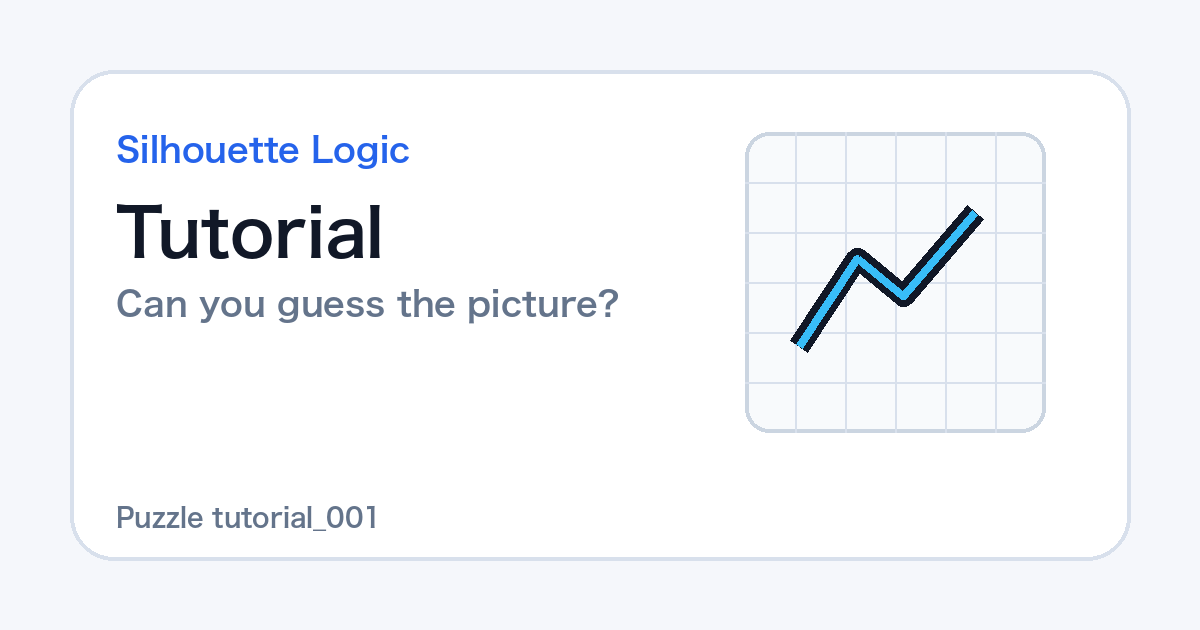
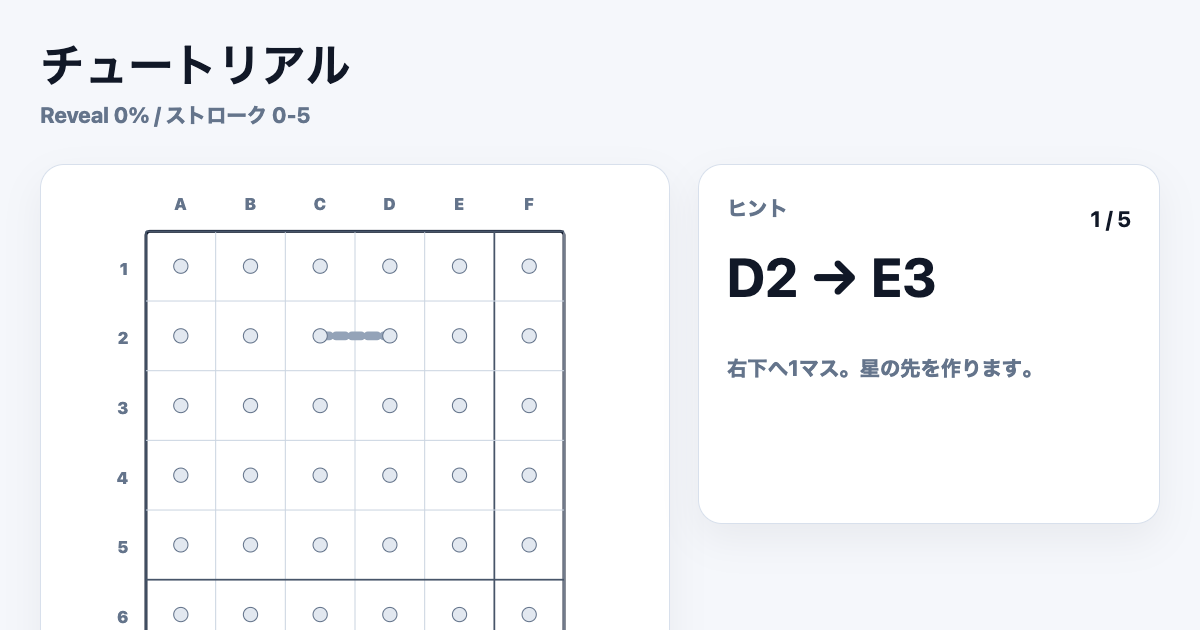
Deploy Silhouette Logic

diff --git a/silhouettelogic/index.html b/silhouettelogic/index.html
@@ -10,8 +10,8 @@
     <meta name="apple-mobile-web-app-title" content="Silhouette Logic" />
     <meta name="apple-mobile-web-app-status-bar-style" content="black-translucent" />
     <title>Silhouette Logic</title>
-    <script type="module" crossorigin src="/silhouettelogic/assets/index-Dt6VEAWz.js"></script>
-    <link rel="stylesheet" crossorigin href="/silhouettelogic/assets/index-WYzdKBGx.css">
+    <script type="module" crossorigin src="/silhouettelogic/assets/index-DjiVB9-N.js"></script>
+    <link rel="stylesheet" crossorigin href="/silhouettelogic/assets/index-CwagTr86.css">
   <link rel="manifest" href="/silhouettelogic/manifest.webmanifest"><script id="vite-plugin-pwa:register-sw" src="/silhouettelogic/registerSW.js"></script></head>
   <body>
     <div id="root"></div>

diff --git a/silhouettelogic/sw.js b/silhouettelogic/sw.js
@@ -1,1 +1,1 @@
-if(!self.define){let e,i={};const s=(s,n)=>(s=new URL(s+".js",n).href,i[s]||new Promise(i=>{if("document"in self){const e=document.createElement("script");e.src=s,e.onload=i,document.head.appendChild(e)}else e=s,importScripts(s),i()}).then(()=>{let e=i[s];if(!e)throw new Error(`Module ${s} didn’t register its module`);return e}));self.define=(n,r)=>{const t=e||("document"in self?document.currentScript.src:"")||location.href;if(i[t])return;let l={};const o=e=>s(e,t),d={module:{uri:t},exports:l,require:o};i[t]=Promise.all(n.map(e=>d[e]||o(e))).then(e=>(r(...e),l))}}define(["./workbox-9c191d2f"],function(e){"use strict";self.skipWaiting(),e.clientsClaim(),e.precacheAndRoute([{url:"registerSW.js",revision:"1a3e9ff25e8640903a9c7790d7196d83"},{url:"index.html",revision:"ea36fae1c2c065a8ff04e85c2ce02acb"},{url:"puzzle/tutorial_001/index.html",revision:"1d506d4f7e2a3803d5780df4094877af"},{url:"puzzle/sailboat_001/index.html",revision:"fb3f3b9109618f93eb1d2094e012fddb"},{url:"puzzle/cat_001/index.html",revision:"5d4dc3f94447044abedbfbefb1b6d0bf"},{url:"assets/index-WYzdKBGx.css",revision:null},{url:"assets/index-Dt6VEAWz.js",revision:null},{url:"icons/icon.svg",revision:"b6432630abca76e9c49f06be3d4a74df"},{url:"manifest.webmanifest",revision:"88f9a967879c6aace48a33b7ec1d4984"}],{}),e.cleanupOutdatedCaches(),e.registerRoute(new e.NavigationRoute(e.createHandlerBoundToURL("index.html")))});
+if(!self.define){let e,i={};const s=(s,n)=>(s=new URL(s+".js",n).href,i[s]||new Promise(i=>{if("document"in self){const e=document.createElement("script");e.src=s,e.onload=i,document.head.appendChild(e)}else e=s,importScripts(s),i()}).then(()=>{let e=i[s];if(!e)throw new Error(`Module ${s} didn’t register its module`);return e}));self.define=(n,r)=>{const t=e||("document"in self?document.currentScript.src:"")||location.href;if(i[t])return;let d={};const l=e=>s(e,t),o={module:{uri:t},exports:d,require:l};i[t]=Promise.all(n.map(e=>o[e]||l(e))).then(e=>(r(...e),d))}}define(["./workbox-9c191d2f"],function(e){"use strict";self.skipWaiting(),e.clientsClaim(),e.precacheAndRoute([{url:"registerSW.js",revision:"1a3e9ff25e8640903a9c7790d7196d83"},{url:"index.html",revision:"15d790290af9e68c1e73671b2e1bd8be"},{url:"puzzle/tutorial_001/index.html",revision:"1d506d4f7e2a3803d5780df4094877af"},{url:"puzzle/sailboat_001/index.html",revision:"fb3f3b9109618f93eb1d2094e012fddb"},{url:"puzzle/cat_001/index.html",revision:"5d4dc3f94447044abedbfbefb1b6d0bf"},{url:"assets/index-DjiVB9-N.js",revision:null},{url:"assets/index-CwagTr86.css",revision:null},{url:"icons/icon.svg",revision:"b6432630abca76e9c49f06be3d4a74df"},{url:"manifest.webmanifest",revision:"88f9a967879c6aace48a33b7ec1d4984"}],{}),e.cleanupOutdatedCaches(),e.registerRoute(new e.NavigationRoute(e.createHandlerBoundToURL("index.html")))});

diff --git a/silhouettelogic/assets/index-CwagTr86.css b/silhouettelogic/assets/index-CwagTr86.css
@@ -1,0 +1,1 @@
+:root{color-scheme:light;--bg: #f5f7fb;--surface: #ffffff;--ink: #111827;--muted: #64748b;--line: #d8e0ec;--accent: #2563eb;--accent-2: #06b6d4;--danger: #dc2626;--soft: #eaf1ff;font-family:Inter,ui-sans-serif,system-ui,-apple-system,BlinkMacSystemFont,Segoe UI,sans-serif}*{box-sizing:border-box}body{margin:0;background:var(--bg);color:var(--ink);min-height:100vh}button{border:0;border-radius:999px;background:var(--ink);color:#fff;min-height:44px;padding:10px 16px;font:inherit;font-weight:900;cursor:pointer}button:disabled{cursor:not-allowed;opacity:.42}button.secondary{background:var(--soft);color:var(--ink)}.icon-button{width:44px;padding:0;display:inline-grid;place-items:center;background:var(--surface);color:var(--ink);border:1px solid var(--line)}.icon-button svg,.game-actions svg{width:20px;height:20px}.app-shell,.game-shell{width:min(1080px,calc(100% - 28px));margin:0 auto;padding:max(16px,env(safe-area-inset-top)) 0 28px}.topbar,.game-header,.section-head{display:flex;align-items:center;justify-content:space-between;gap:12px}h1,h2,h3,p{margin-top:0}.topbar h1,.game-header h1{margin-bottom:2px;font-size:clamp(26px,5vw,44px);letter-spacing:0}.topbar p,.game-header p,.daily-card p,.puzzle-card p,.puzzle-card small{color:var(--muted);font-weight:750}.daily-card{margin:18px 0;min-height:190px;border-radius:28px;padding:clamp(22px,5vw,40px);color:#fff;background:radial-gradient(circle at 80% 20%,rgba(6,182,212,.8),transparent 32%),linear-gradient(135deg,#111827,#1d4ed8);box-shadow:0 22px 48px #0f172a26}.daily-card p{color:#ffffffc7}.daily-card h2{font-size:clamp(30px,8vw,58px);margin-bottom:8px}.daily-card button{background:#fff;color:var(--ink)}.eyebrow{color:var(--accent);letter-spacing:.09em;text-transform:uppercase;font-size:12px;font-weight:950}.daily-card .eyebrow{color:#ffffffc7}.puzzle-list{display:grid;gap:12px}.puzzle-card{display:grid;grid-template-columns:72px minmax(0,1fr) auto;align-items:center;gap:14px;padding:14px;border-radius:22px;background:var(--surface);border:1px solid var(--line)}.puzzle-card h3{margin-bottom:4px}.mini-preview{width:72px;aspect-ratio:1;border-radius:18px;background:#f8fafc;border:1px solid var(--line);overflow:hidden}.mini-preview rect{fill:#f8fafc}.mini-preview line{stroke:#111827;stroke-width:7;stroke-linecap:round}.progress-bar{height:8px;border-radius:999px;overflow:hidden;background:#e5e7eb;margin:8px 0 4px}.progress-bar span{display:block;height:100%;border-radius:inherit;background:linear-gradient(90deg,var(--accent),var(--accent-2))}.game-layout{display:grid;grid-template-columns:minmax(0,1fr) minmax(280px,360px);gap:18px;align-items:start;margin-top:16px}.board-frame,.hint-card,.modal,.side-panel .toast{background:var(--surface);border:1px solid var(--line);border-radius:24px;box-shadow:0 16px 38px #0f172a0f}.board-frame{padding:clamp(10px,2vw,18px)}.puzzle-svg{display:block;width:100%;max-height:min(74vh,760px);touch-action:none;-webkit-user-select:none;user-select:none}.coord-label{fill:var(--muted);font-size:4px;font-weight:900}.grid-bg{fill:#fff;stroke:#0f172a;stroke-width:.7}.grid-line{stroke:#cbd5e1;stroke-width:.25}.grid-line.major{stroke:#475569;stroke-width:.42}.stroke{fill:none;stroke-linecap:round;stroke-linejoin:round}.stroke.pre{stroke:#94a3b8;stroke-width:2.1;stroke-dasharray:2.2 1.6}.stroke.done{stroke:#111827;stroke-width:2.5}.stroke.draft{stroke:#2563eb;stroke-width:1.8;opacity:.74}.stroke.wrong{stroke:var(--danger);stroke-width:3}.point{fill:#e2e8f0;stroke:#64748b;stroke-width:.25}.point.active{fill:#2563eb}.side-panel{display:grid;gap:12px}.hint-card{padding:18px}.hint-top{display:flex;align-items:center;justify-content:space-between;gap:10px}.hint-top p,.hint-card p{color:var(--muted);font-weight:750}.hint-card h2{font-size:clamp(26px,4vw,38px)}.mystery-hint{padding:12px;border-radius:16px;background:#fff7ed;color:#9a3412;font-weight:900}.hint-actions,.game-actions,.modal-actions{display:flex;gap:8px;flex-wrap:wrap}.game-actions button{flex:1;display:inline-flex;align-items:center;justify-content:center;gap:8px}.toast{padding:12px 16px;color:var(--danger);font-weight:900}.modal-layer{position:fixed;inset:0;z-index:50;display:grid;place-items:center;padding:18px;background:#0f172a7a}.modal{width:min(480px,100%);max-height:calc(100dvh - 52px);overflow:auto;padding:24px}.modal h2{font-size:34px}.choice-grid{display:grid;gap:10px;margin:18px 0}.choice-grid button{justify-content:flex-start;min-height:54px;border-radius:16px;background:#f8fafc;color:var(--ink);border:1px solid var(--line)}.wrong-text{color:var(--danger);font-weight:900}.answer-note{margin-top:12px;color:var(--muted);font-size:13px}.result-stats{display:grid;grid-template-columns:1fr 1fr;gap:10px;margin:18px 0}.result-stats span{display:grid;gap:4px;padding:14px;border-radius:18px;background:var(--soft);color:var(--muted);font-weight:800}.result-stats strong{color:var(--ink);font-size:24px}.help h3{margin-bottom:6px}@media(max-width:820px){.game-layout{grid-template-columns:1fr}.puzzle-card{grid-template-columns:58px minmax(0,1fr)}.puzzle-card button{grid-column:1 / -1}.mini-preview{width:58px}}@media(orientation:landscape)and (max-height:520px){.game-shell{width:min(100% - 18px,1120px);padding-top:8px}.game-header h1{font-size:22px}.game-layout{grid-template-columns:minmax(0,1fr) 300px}.puzzle-svg{max-height:calc(100vh - 82px)}}html[data-ogp=true],html[data-ogp=true] body,html[data-ogp=true] #root{width:1200px;height:630px;overflow:hidden;background:#f5f7fb}html[data-ogp=true] .game-shell{width:1120px;height:630px;padding:32px 0}html[data-ogp=true] .game-header{margin-bottom:12px}html[data-ogp=true] .game-header .icon-button,html[data-ogp=true] .game-actions{display:none}html[data-ogp=true] .game-header h1{font-size:48px}html[data-ogp=true] .game-header p{font-size:22px}html[data-ogp=true] .game-layout{grid-template-columns:630px 1fr;gap:28px;margin-top:0}html[data-ogp=true] .board-frame{padding:12px}html[data-ogp=true] .puzzle-svg{max-height:510px}html[data-ogp=true] .hint-card{min-height:360px;padding:28px}html[data-ogp=true] .hint-card h2{font-size:54px}html[data-ogp=true] .hint-card p,html[data-ogp=true] .hint-top{font-size:22px}html[data-ogp=true] .hint-actions{display:none}